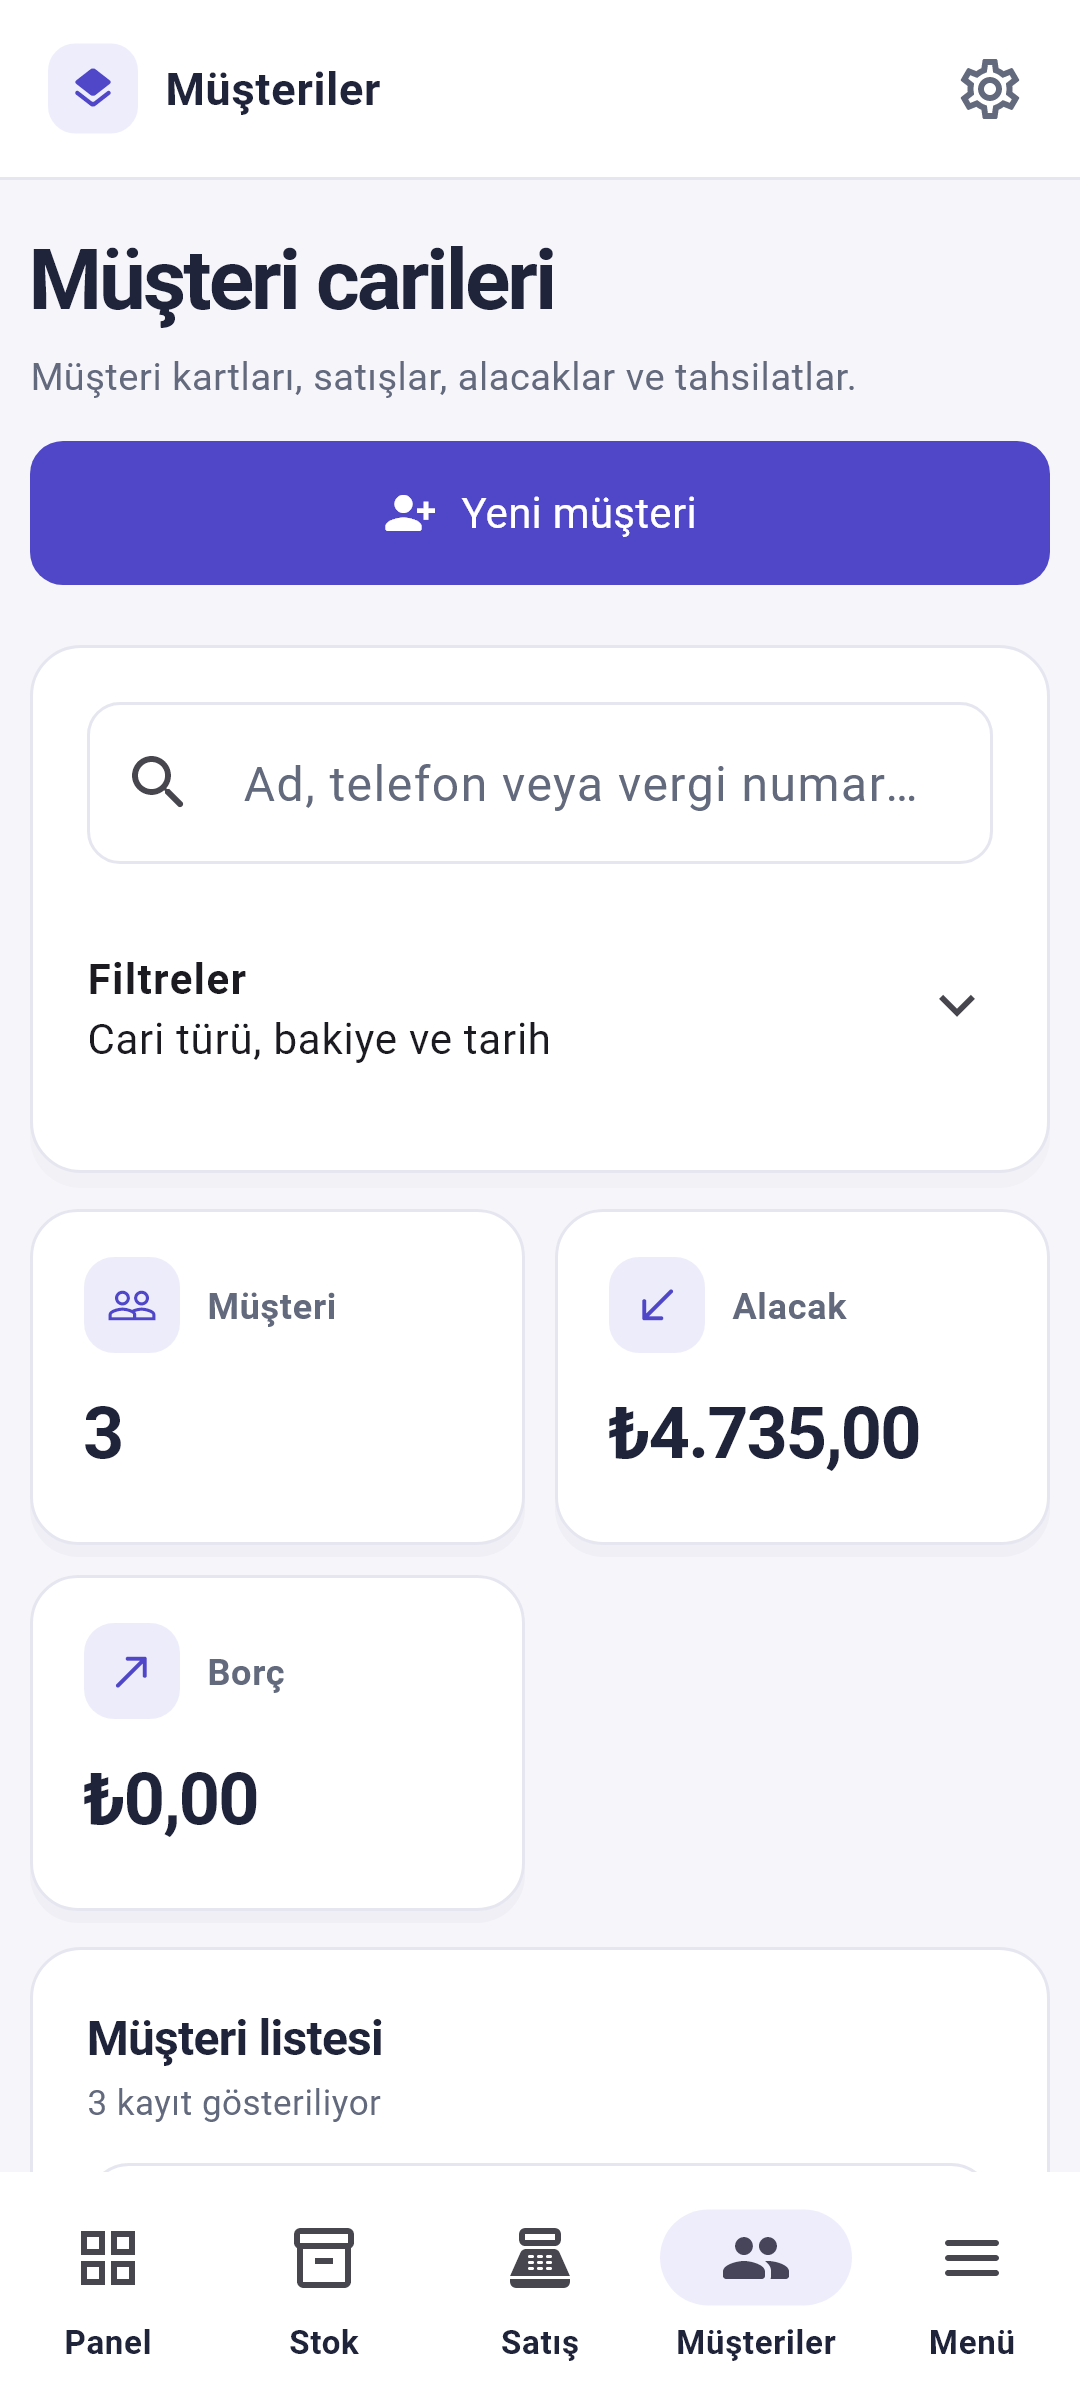
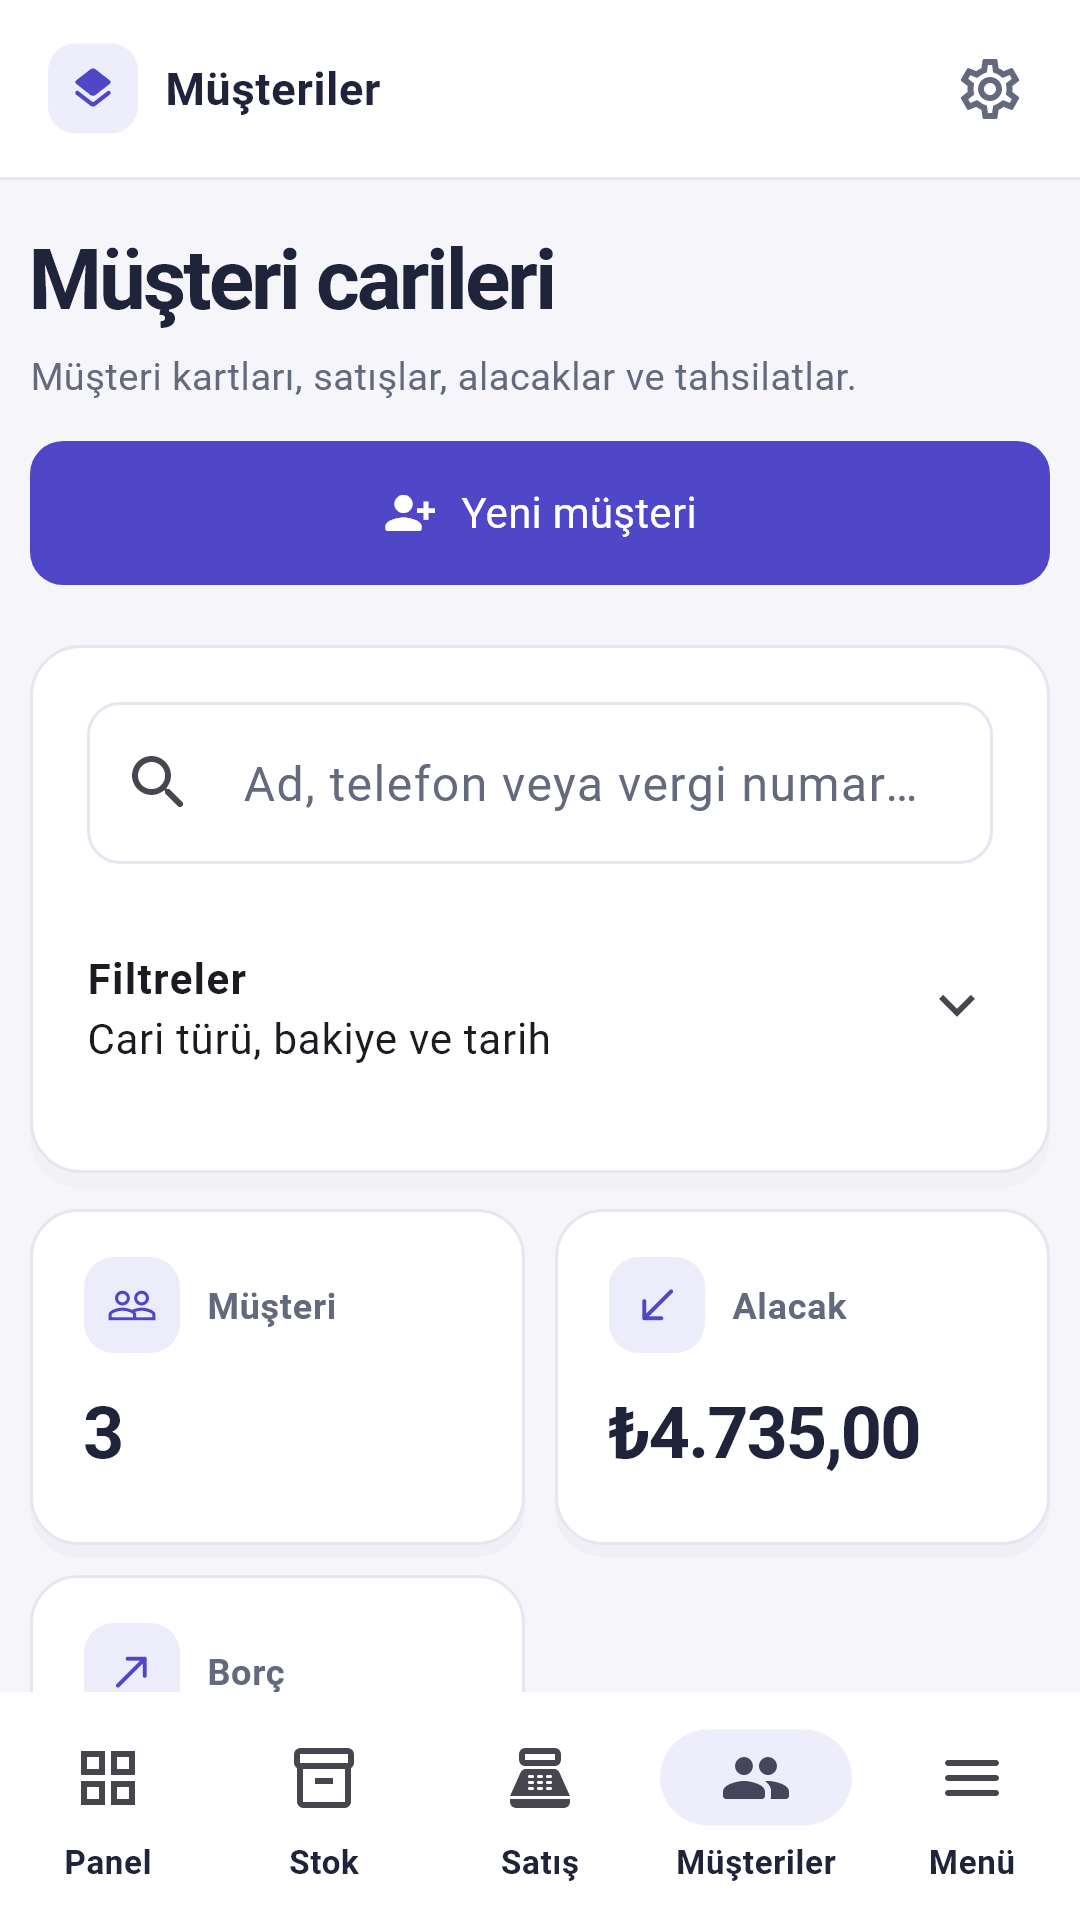
Fit Android store screenshots to 9:16 format

diff --git a/test/store_screenshots_test.dart b/test/store_screenshots_test.dart
@@ -28,7 +28,7 @@ void main() {
       ..addFont(rootBundle.load('fonts/MaterialIcons-Regular.otf'))).load();
   });
 
-  for (final device in [('android', 360.0, 800.0), ('iphone', 430.0, 932.0)]) {
+  for (final device in [('android', 360.0, 640.0), ('iphone', 430.0, 932.0)]) {
     testWidgets('Real pages fit ${device.$1} and navigate correctly', (
       tester,
     ) async {
